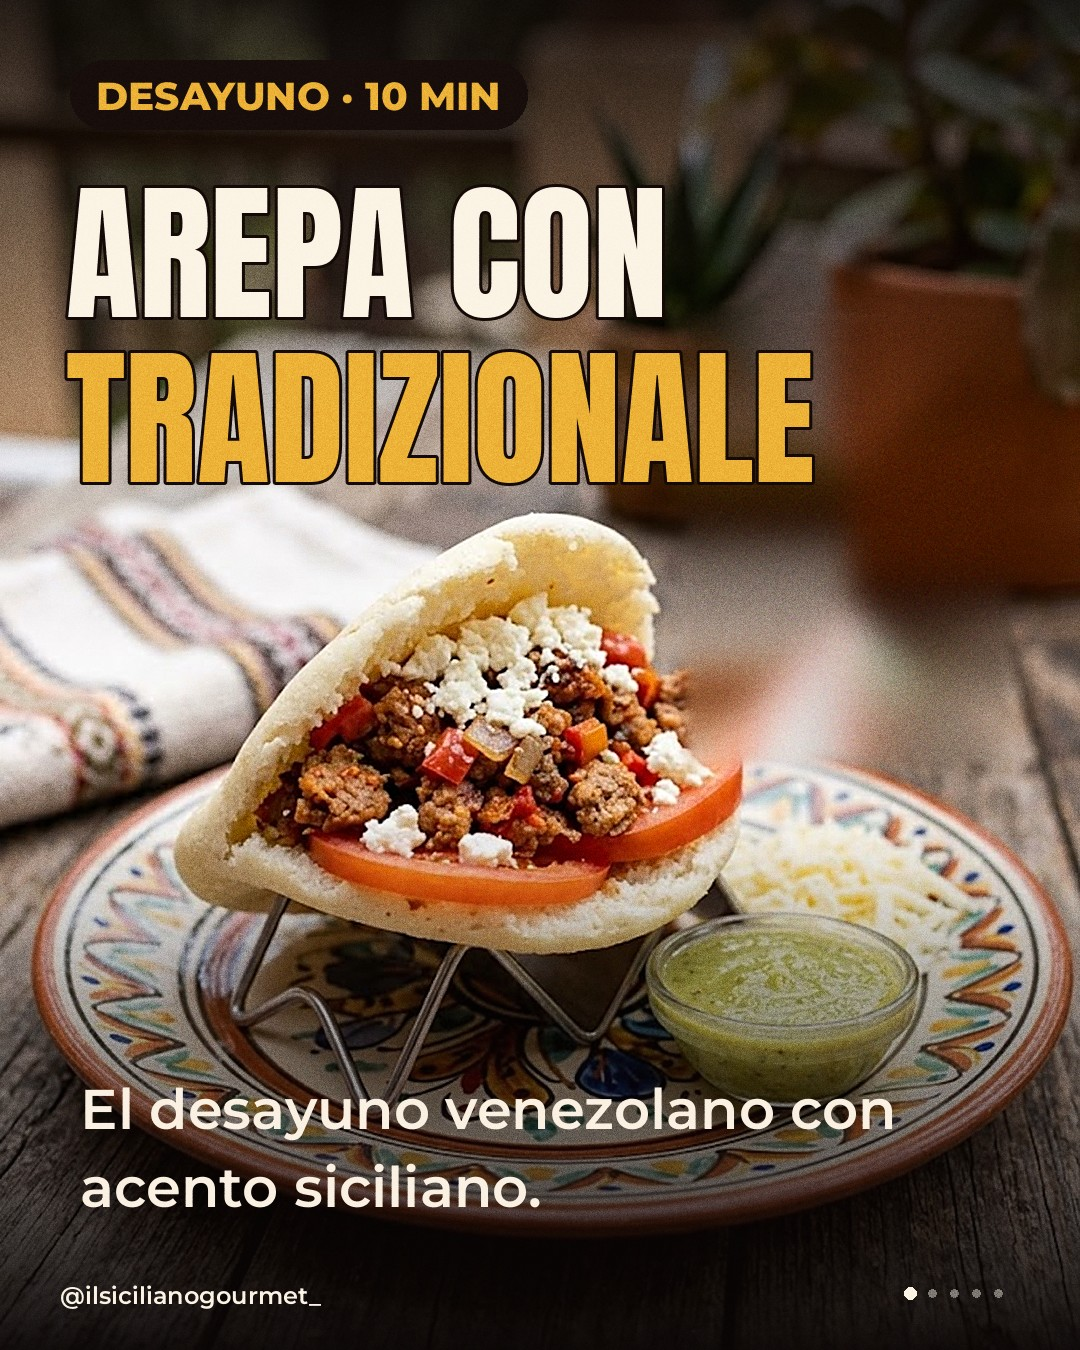
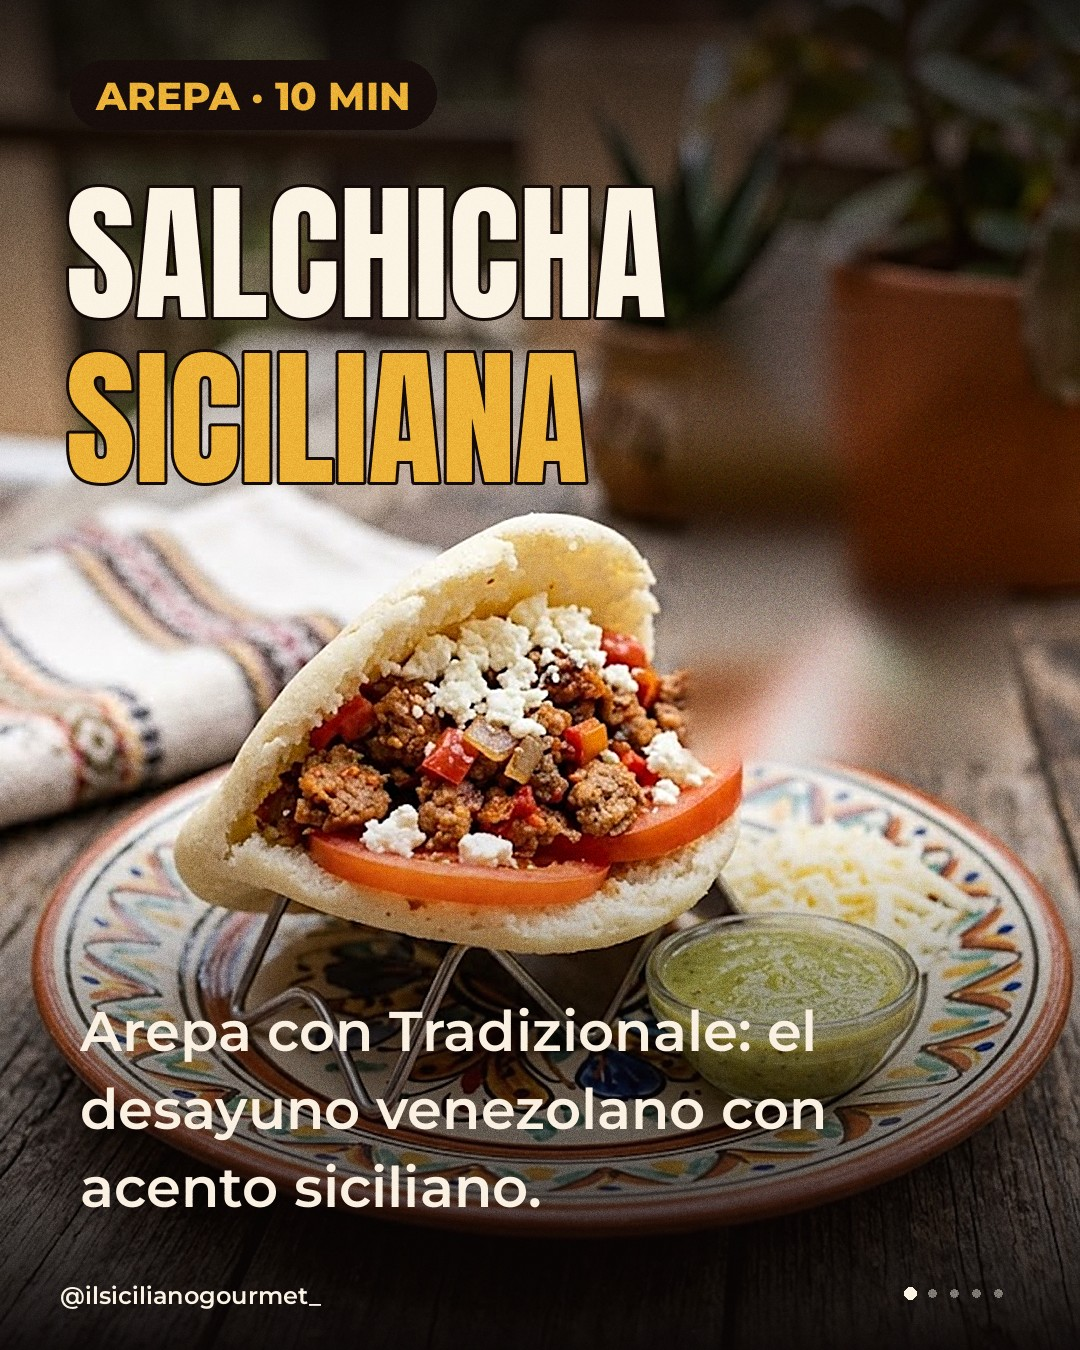
Día 9 v4: fotos completas (ingredientes, arepas asándose, arepa), título salchicha siciliana
Claude-Session: https://claude.ai/code/session_01BoapLYkqJjC4bybfaGWR3T

Changed region(s): [[0.0611, 0.1244, 0.7639, 0.3733], [0.0611, 0.7467, 0.825, 0.84], [0.0917, 0.0622, 0.4889, 0.0933]]

diff --git a/dia09_v4.py b/dia09_v4.py
@@ -12,18 +12,48 @@ ROJO = (196, 44, 26)
 CRE, DOR = g.CREMA, g.DORADO
 
 
+def ingredientes():
+    from PIL import ImageDraw, ImageFilter
+    from generador import W, anton, mont, pastilla, pie, terminar, CREMA, OSCURO, DORADO
+    T, h, o = g.tt(), D.H(), D.oy()
+    foto = Image.open(f"{D.FOT}/d09_ingredientes.png").convert("RGB")
+    b = D.llenar(foto, W, h, 0.5, 0.40 if not T else 0.5).convert("RGBA")
+    b.alpha_composite(D.degradado_v(W, h, 0, int(h * 0.26), (10, 6, 5), 215, 0))
+    b.alpha_composite(D.degradado_v(W, h, int(h * (0.44 if T else 0.50)), h, (10, 6, 5), 0, 248))
+    d = ImageDraw.Draw(b)
+    ft = anton(150 if T else 140)
+    d.text((66, o + (80 if T else 40)), "INGREDIENTES", font=ft, fill=CRE, stroke_width=3, stroke_fill=(20, 10, 8))
+    fb = mont(44 if T else 40, "SemiBold")
+    bloques = [("PARA LA AREPA", "Harina de maíz, sal y agua."),
+               ("PARA RELLENAR", "Queso mozzarella, tomate y salchicha siciliana Traviani.")]
+    alto = 0
+    for et, tx in bloques:
+        alto += 90 + len(g._lineas(d, tx, fb, W - 160)) * int(fb.size * 1.36) + 26
+    y = (1490 if T else h - 110) - alto
+    for et, tx in bloques:
+        pastilla(d, 70, y, et, mont(30, "ExtraBold"), DOR, OSCURO)
+        y += 92
+        for l in g._lineas(d, tx, fb, W - 160):
+            d.text((76, y), l, font=fb, fill=(250, 240, 226)); y += int(fb.size * 1.36)
+        y += 26
+    if not T:
+        pie(d, CRE, 2, 5)
+    return terminar(b)
+
+
 def laminas():
-    arepa = D.cargar("arepa_limpia.png")
     total = 5
     return [
-        lambda: foto_titulo("arepa_limpia.png", [("AREPA CON", CRE), ("TRADIZIONALE", DOR)],
-                            "El desayuno venezolano con acento siciliano.", 1, total, cy=0.12, cx=0.3, chip="DESAYUNO · 10 MIN"),
-        lambda: lista_con_empaque("INGREDIENTES", ["1 Tradizionale", "2 arepas recién hechas", "Queso blanco rallado",
-                                                   "Aguacate (opcional)"], 2, total, 2, dy_tt=90),
-        lambda: D.lamina_dia("PASO 1", "ASÁLA", "En sartén o plancha a fuego medio, 12 a 15 minutos volteando, hasta que esté bien cocida.",
-                             "grafico", (196, 44, 26), 3, total, empaque_n=2, ghost="12 MIN"),
-        lambda: D.lamina_dia("PASO 2", "RELLENA", "Rodajas finas dentro de la arepa abierta, con queso blanco y aguacate si quieres.",
-                             "circulo", (30, 120, 92), 4, total, foto=arepa, caja=(90, 400, 470, 700)),
+        lambda: foto_titulo("arepa_limpia.png", [("SALCHICHA", CRE), ("SICILIANA", DOR)],
+                            "Arepa con Tradizionale: el desayuno venezolano con acento siciliano.", 1, total,
+                            cy=0.12, cx=0.3, chip="AREPA · 10 MIN"),
+        ingredientes,
+        lambda: foto_titulo("d09_arepas_asando.png", [("PASO 1", DOR), ("A LA SARTÉN", CRE)],
+                            "Arepas en el budare o sartén a fuego medio. La salchicha, 12 a 15 minutos volteando, hasta que esté bien cocida.",
+                            3, total, modo="ancho", tam_ig=140, tam_tt=160),
+        lambda: foto_titulo("arepa_limpia.png", [("PASO 2", DOR), ("RELLENA", CRE)],
+                            "Rodajas finas dentro de la arepa abierta, con queso blanco y aguacate si quieres.",
+                            4, total, cy=0.5, cx=0.3),
         lambda: D.lamina_cierre_parrilla("PIDE TU\nTRADIZIONALE", ENTREGA + [WA], "PIDE DIRECTO CON NOSOTROS", total,
                                          fotos=(2, 5, 1), fondo="ambar"),
     ]
